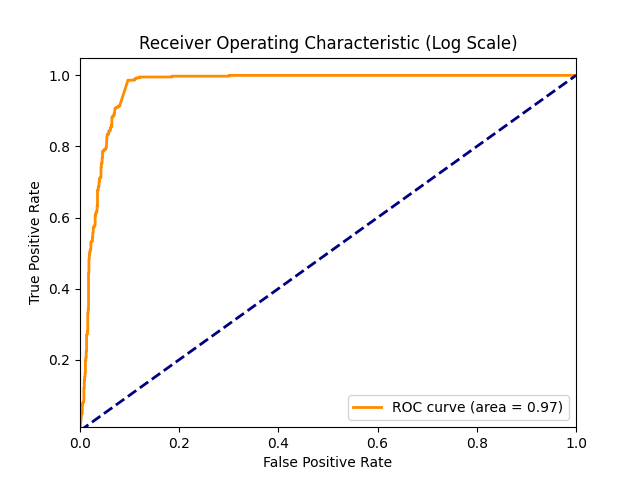
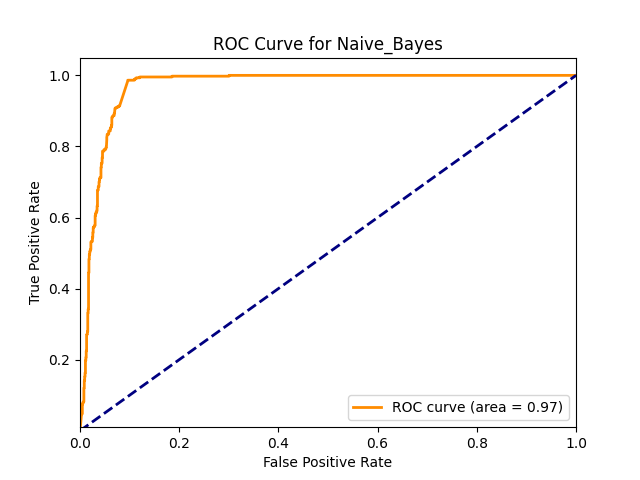
Fixed figure names.

Changed region(s): [[0.2188, 0.0625, 0.8125, 0.125]]

diff --git a/part4/classifier.py b/part4/classifier.py
@@ -5,6 +5,9 @@ from sklearn.metrics import confusion_matrix, accuracy_score, precision_score, r
 from sklearn.preprocessing import PolynomialFeatures
 import matplotlib.pyplot as plt
 
+#TEMP IMPORTS
+from sklearn.svm import SVC
+
 def train_logistic_regression(X_train, y_train, poly_degree=1):
     # Transform input data to include polynomial features
     poly = PolynomialFeatures(degree=poly_degree)
@@ -54,7 +57,7 @@ def evaluate_classifier(classifier, poly, X_test, y_test, classifier_name):
         plt.ylim([0.01, 1.05])
         plt.xlabel('False Positive Rate')
         plt.ylabel('True Positive Rate')
-        plt.title('Receiver Operating Characteristic (Log Scale)')
+        plt.title(f'ROC Curve for {classifier_name}')
         plt.legend(loc="lower right")
         plt.savefig(f"ROC Curve-{classifier_name}.png")
         plt.show()
